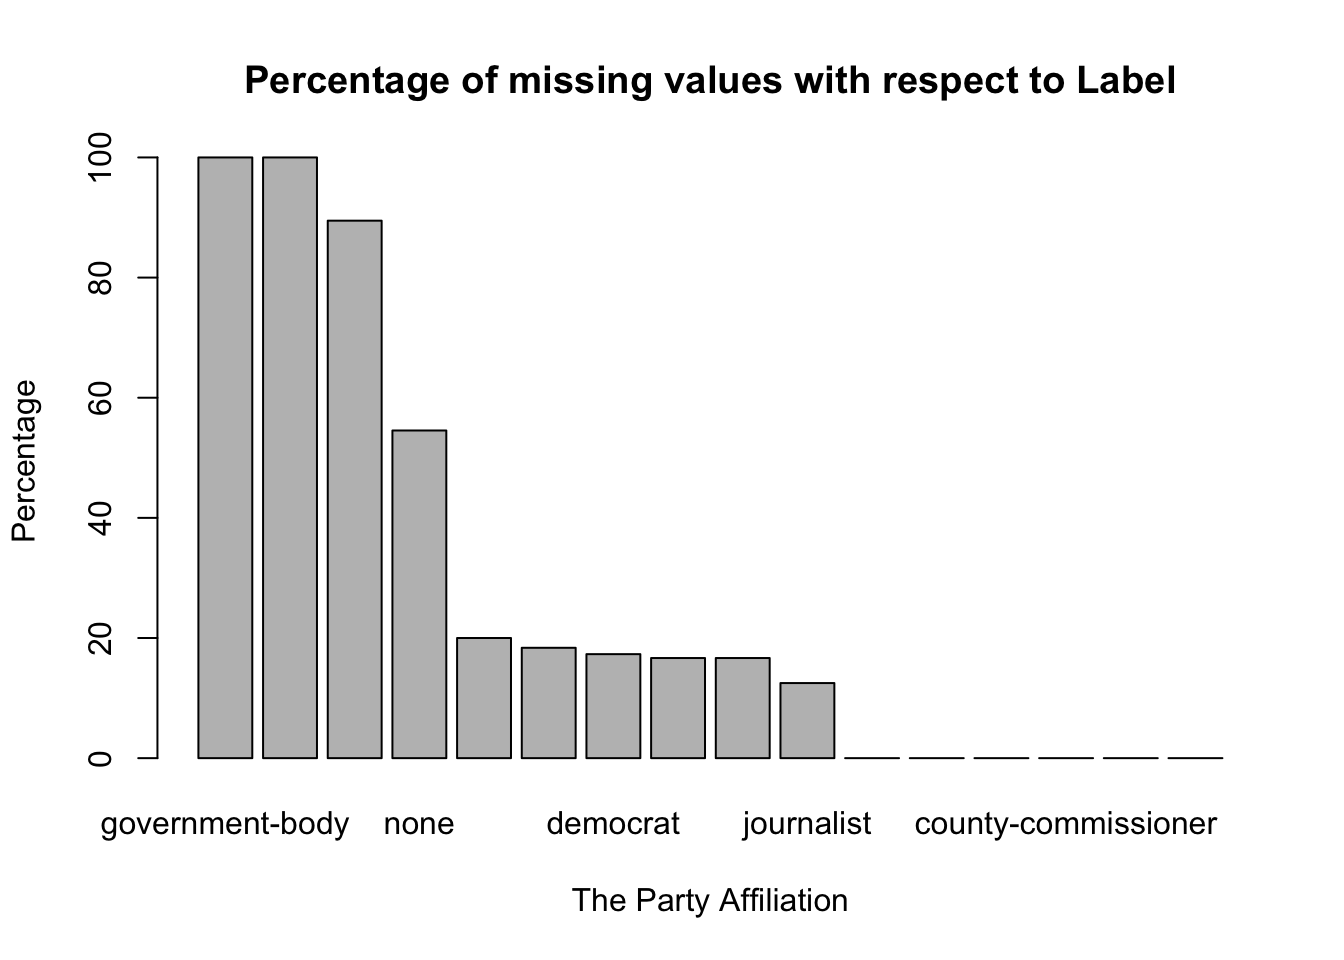
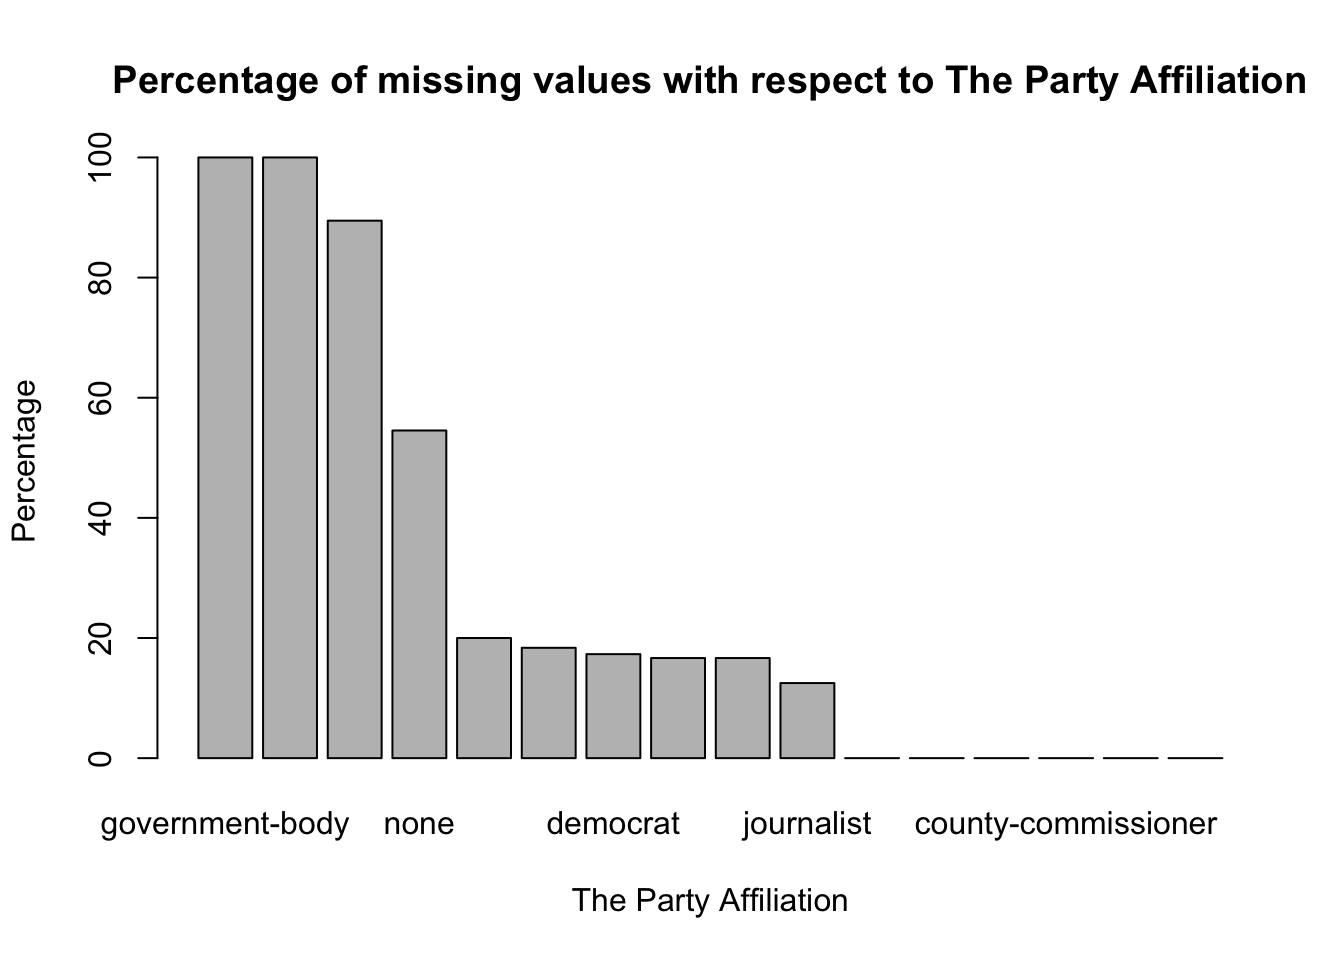
final Vs 3

Changed region(s): [[0.0625, 0.0625, 0.9688, 0.125]]

diff --git a/docs/missing-values.html b/docs/missing-values.html
@@ -187,7 +187,7 @@ Column-Wise</li>
 <ul>
 <li>Note, we imported this package from github - <a href="https://github.com/heike/extracat#installation" class="uri">https://github.com/heike/extracat#installation</a></li>
 </ul>
-<p><img src="finalproj_files/figure-html/unnamed-chunk-19-1.png" width="1728" /></p>
+<p><img src="finalproj_files/figure-html/unnamed-chunk-19-1.png" width="1920" /></p>
 <ul>
 <li><p>This is missing value plot for our dataset similar to the question2</p></li>
 <li><p>The first plot on the top shows % of missing value for each feature</p></li>
@@ -216,7 +216,7 @@ Column-Wise</li>
 ## 14 republican                            0.184       0.0772
 ## 15 state-official                        0           0     
 ## 16 talk-show-host                        0           0.333</code></pre>
-<p><strong>Percentage of Missing Values for each Label in Test dataset </strong></p>
+<p><strong>Percentage of Missing Values for each Party Affiliation in Test dataset </strong></p>
 <p><img src="finalproj_files/figure-html/unnamed-chunk-21-1.png" width="672" /></p>
 <p><strong>Heatmap </strong></p>
 <p><img src="finalproj_files/figure-html/unnamed-chunk-23-1.png" width="768" /></p>
